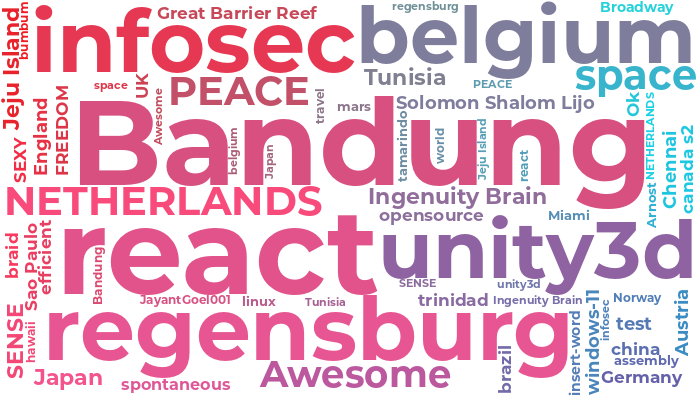
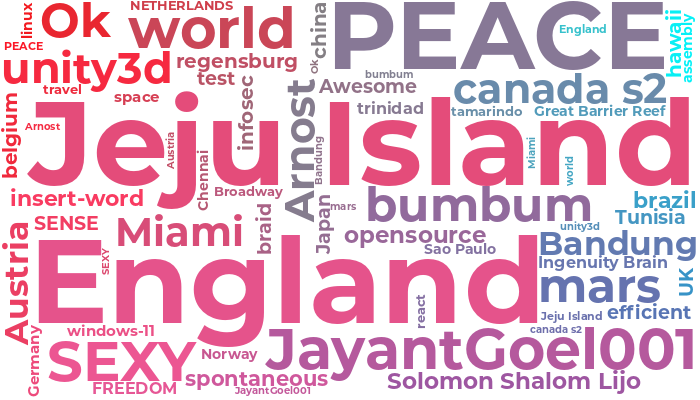
@codemaker2015 regenerated the Word Cloud

diff --git a/README.md b/README.md
@@ -1,8 +1,9 @@
+
 ## Join the Community Word Cloud :cloud: :pencil2:
 
-![](https://img.shields.io/badge/Words%20Added-406-brightgreen?labelColor=7D898B)
+![](https://img.shields.io/badge/Words%20Added-18-brightgreen?labelColor=7D898B)
 ![](https://img.shields.io/badge/Word%20Clouds%20Created-6-48D6FF?labelColor=7D898B)
-![](https://img.shields.io/badge/Total%20Participants-307-AC6EFF?labelColor=7D898B)
+![](https://img.shields.io/badge/Total%20Participants-1-AC6EFF?labelColor=7D898B)
 
 ### :thought_balloon: [Add a word](https://github.com/codemaker2015/word-cloud/issues/new?template=addword.md&title=wordcloud%7Cadd%7C%3CINSERT-WORD%3E) to see the word cloud update in real time :rocket:
 
@@ -16,10 +17,10 @@ A new word cloud will be automatically generated when you [add your own word](ht
 
 <img src="https://raw.githubusercontent.com/codemaker2015/word-cloud/master/wordcloud/wordcloud.png" alt="WordCloud" width="100%">
 
-![Word Cloud Words Badge](https://img.shields.io/badge/Words%20in%20this%20Cloud-51-informational?labelColor=7D898B)
-![Word Cloud Contributors Badge](https://img.shields.io/badge/Contributors%20this%20Cloud-37-blueviolet?labelColor=7D898B)
+![Word Cloud Words Badge](https://img.shields.io/badge/Words%20in%20this%20Cloud-3-informational?labelColor=7D898B)
+![Word Cloud Contributors Badge](https://img.shields.io/badge/Contributors%20this%20Cloud-0-blueviolet?labelColor=7D898B)
 
-[![Github Badge](https://img.shields.io/badge/-@codemaker2015-24292e?style=flat&logo=Github&logoColor=white&link=https://github.com/codemaker2015)](https://github.com/codemaker2015) [![Github Badge](https://img.shields.io/badge/-@trinib-24292e?style=flat&logo=Github&logoColor=white&link=https://github.com/trinib)](https://github.com/trinib) [![Github Badge](https://img.shields.io/badge/-@Esthuy-24292e?style=flat&logo=Github&logoColor=white&link=https://github.com/Esthuy)](https://github.com/Esthuy) [![Github Badge](https://img.shields.io/badge/-@phovu-24292e?style=flat&logo=Github&logoColor=white&link=https://github.com/phovu)](https://github.com/phovu) [![Github Badge](https://img.shields.io/badge/-@crimsonshade-24292e?style=flat&logo=Github&logoColor=white&link=https://github.com/crimsonshade)](https://github.com/crimsonshade) [![Github Badge](https://img.shields.io/badge/-@BPower0036-24292e?style=flat&logo=Github&logoColor=white&link=https://github.com/BPower0036)](https://github.com/BPower0036) [![Github Badge](https://img.shields.io/badge/-@vyshnovka-24292e?style=flat&logo=Github&logoColor=white&link=https://github.com/vyshnovka)](https://github.com/vyshnovka) [![Github Badge](https://img.shields.io/badge/-@solomonshalom-24292e?style=flat&logo=Github&logoColor=white&link=https://github.com/solomonshalom)](https://github.com/solomonshalom) [![Github Badge](https://img.shields.io/badge/-@Chi20-24292e?style=flat&logo=Github&logoColor=white&link=https://github.com/Chi20)](https://github.com/Chi20) [![Github Badge](https://img.shields.io/badge/-@JohnyP36-24292e?style=flat&logo=Github&logoColor=white&link=https://github.com/JohnyP36)](https://github.com/JohnyP36) [![Github Badge](https://img.shields.io/badge/-@DalpatRathore-24292e?style=flat&logo=Github&logoColor=white&link=https://github.com/DalpatRathore)](https://github.com/DalpatRathore) [![Github Badge](https://img.shields.io/badge/-@aksalsf-24292e?style=flat&logo=Github&logoColor=white&link=https://github.com/aksalsf)](https://github.com/aksalsf) [![Github Badge](https://img.shields.io/badge/-@maissenayed-24292e?style=flat&logo=Github&logoColor=white&link=https://github.com/maissenayed)](https://github.com/maissenayed) [![Github Badge](https://img.shields.io/badge/-@Loner291999-24292e?style=flat&logo=Github&logoColor=white&link=https://github.com/Loner291999)](https://github.com/Loner291999) [![Github Badge](https://img.shields.io/badge/-@GabrielaSchmitt-24292e?style=flat&logo=Github&logoColor=white&link=https://github.com/GabrielaSchmitt)](https://github.com/GabrielaSchmitt) [![Github Badge](https://img.shields.io/badge/-@Carol42-24292e?style=flat&logo=Github&logoColor=white&link=https://github.com/Carol42)](https://github.com/Carol42) [![Github Badge](https://img.shields.io/badge/-@robinlin99-24292e?style=flat&logo=Github&logoColor=white&link=https://github.com/robinlin99)](https://github.com/robinlin99) [![Github Badge](https://img.shields.io/badge/-@gonzaloev-24292e?style=flat&logo=Github&logoColor=white&link=https://github.com/gonzaloev)](https://github.com/gonzaloev) [![Github Badge](https://img.shields.io/badge/-@charooxyz-24292e?style=flat&logo=Github&logoColor=white&link=https://github.com/charooxyz)](https://github.com/charooxyz) [![Github Badge](https://img.shields.io/badge/-@coppeneur-24292e?style=flat&logo=Github&logoColor=white&link=https://github.com/coppeneur)](https://github.com/coppeneur) [![Github Badge](https://img.shields.io/badge/-@MaanavD-24292e?style=flat&logo=Github&logoColor=white&link=https://github.com/MaanavD)](https://github.com/MaanavD) [![Github Badge](https://img.shields.io/badge/-@jrmydix-24292e?style=flat&logo=Github&logoColor=white&link=https://github.com/jrmydix)](https://github.com/jrmydix) [![Github Badge](https://img.shields.io/badge/-@wgyt-24292e?style=flat&logo=Github&logoColor=white&link=https://github.com/wgyt)](https://github.com/wgyt) [![Github Badge](https://img.shields.io/badge/-@nalanios-24292e?style=flat&logo=Github&logoColor=white&link=https://github.com/nalanios)](https://github.com/nalanios) [![Github Badge](https://img.shields.io/badge/-@S4lem-24292e?style=flat&logo=Github&logoColor=white&link=https://github.com/S4lem)](https://github.com/S4lem) [![Github Badge](https://img.shields.io/badge/-@gapolli-24292e?style=flat&logo=Github&logoColor=white&link=https://github.com/gapolli)](https://github.com/gapolli) [![Github Badge](https://img.shields.io/badge/-@J--Walters-24292e?style=flat&logo=Github&logoColor=white&link=https://github.com/J-Walters)](https://github.com/J-Walters) [![Github Badge](https://img.shields.io/badge/-@cosmoglint-24292e?style=flat&logo=Github&logoColor=white&link=https://github.com/cosmoglint)](https://github.com/cosmoglint) [![Github Badge](https://img.shields.io/badge/-@TheKaushikGoswami-24292e?style=flat&logo=Github&logoColor=white&link=https://github.com/TheKaushikGoswami)](https://github.com/TheKaushikGoswami) [![Github Badge](https://img.shields.io/badge/-@pitzeltoast-24292e?style=flat&logo=Github&logoColor=white&link=https://github.com/pitzeltoast)](https://github.com/pitzeltoast) [![Github Badge](https://img.shields.io/badge/-@sumeshir26-24292e?style=flat&logo=Github&logoColor=white&link=https://github.com/sumeshir26)](https://github.com/sumeshir26) [![Github Badge](https://img.shields.io/badge/-@crxssed7-24292e?style=flat&logo=Github&logoColor=white&link=https://github.com/crxssed7)](https://github.com/crxssed7) [![Github Badge](https://img.shields.io/badge/-@JohnPalmgren-24292e?style=flat&logo=Github&logoColor=white&link=https://github.com/JohnPalmgren)](https://github.com/JohnPalmgren) [![Github Badge](https://img.shields.io/badge/-@kstamp232-24292e?style=flat&logo=Github&logoColor=white&link=https://github.com/kstamp232)](https://github.com/kstamp232) [![Github Badge](https://img.shields.io/badge/-@ashleighrene-24292e?style=flat&logo=Github&logoColor=white&link=https://github.com/ashleighrene)](https://github.com/ashleighrene) [![Github Badge](https://img.shields.io/badge/-@JayantGoel001-24292e?style=flat&logo=Github&logoColor=white&link=https://github.com/JayantGoel001)](https://github.com/JayantGoel001) [![Github Badge](https://img.shields.io/badge/-@codemaker2015-24292e?style=flat&logo=Github&logoColor=white&link=https://github.com/codemaker2015)](https://github.com/codemaker2015) 
+
 
  Check out the [previous word cloud](https://github.com/codemaker2015/codemaker2015/blob/master/previous_clouds/previous_clouds.md#what-are-you-looking-forward-to-in-2021-tada-sunglasses-confetti_ball) to see our community's **What are you looking forward to in 2021? :tada: :sunglasses: :confetti_ball:**</div>
 
